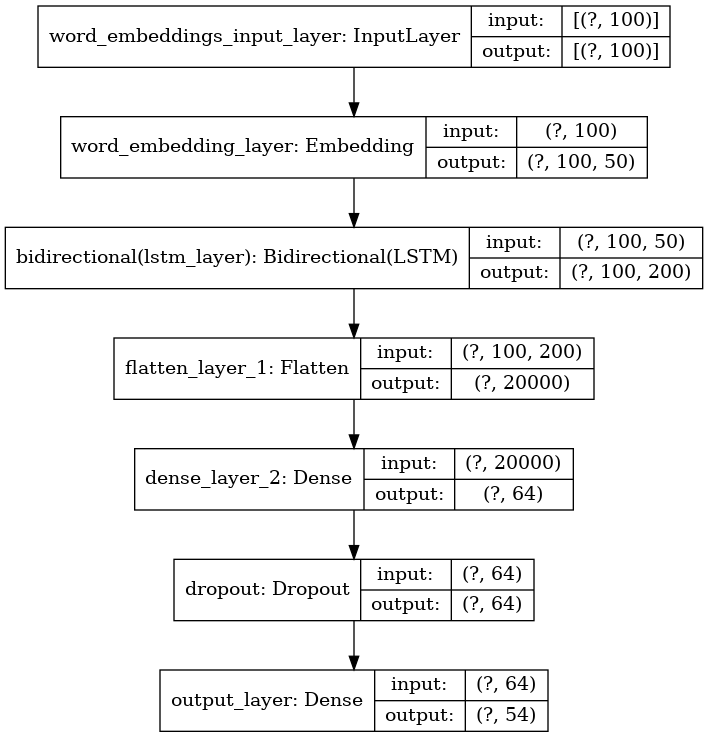
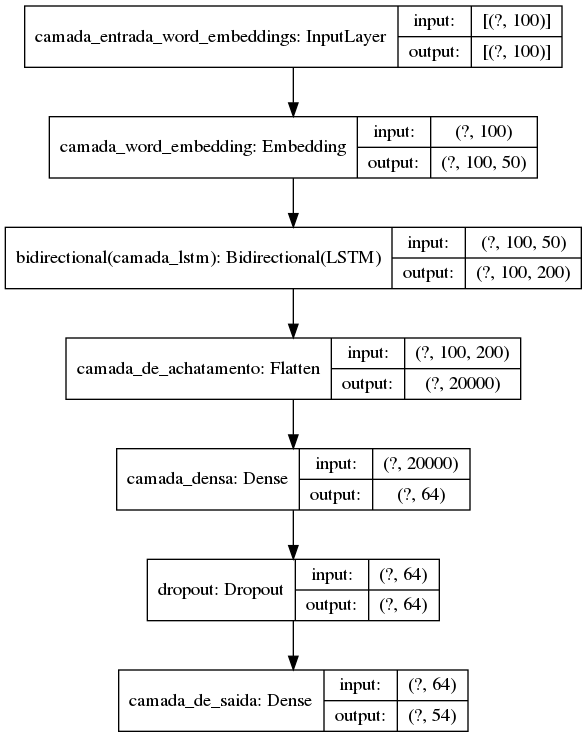
Modificação de legendas na imagem do modelo

diff --git a/src/modules/model.py b/src/modules/model.py
@@ -152,22 +152,22 @@ class Model:
         input_layers = []
         
         # layer de input de word embeddings
-        word_embeddings_input_layer = self.create_input_layer('word_embeddings_input_layer', input_length)
+        word_embeddings_input_layer = self.create_input_layer('camada_entrada_word_embeddings', input_length)
         input_layers.append(word_embeddings_input_layer)
-        model = self.create_embedding_layer('word_embedding_layer', self.word_embeddings_matrix, input_length, False, word_embeddings_input_layer)
+        model = self.create_embedding_layer('camada_word_embedding', self.word_embeddings_matrix, input_length, False, word_embeddings_input_layer)
 
         # layer LSTM
-        lstm = self.create_lstm_layer('lstm_layer', input_length, 0.5, True, model)
+        lstm = self.create_lstm_layer('camada_lstm', input_length, 0.5, True, model)
 
         # layer BI-LSTM
-        model = self.create_bidirectional_layer('bi_lstm_layer', lstm, model)
+        model = self.create_bidirectional_layer('camada_bi_lstm', lstm, model)
 
         # layer Flatten
-        model = self.create_flatten_layer('flatten_layer_1', model)
+        model = self.create_flatten_layer('camada_de_achatamento', model)
 
-        model = self.create_dense_layer('dense_layer_2', 64, 'relu', model)
+        model = self.create_dense_layer('camada_densa', 64, 'relu', model)
         model = tf.keras.layers.Dropout(0.5)(model)
-        output = self.create_dense_layer('output_layer', len(self.relations_dict), 'softmax', model)
+        output = self.create_dense_layer('camada_de_saida', len(self.relations_dict), 'softmax', model)
 
         # criação do modelo
         model = tf.keras.Model(inputs=input_layers, outputs=output)
